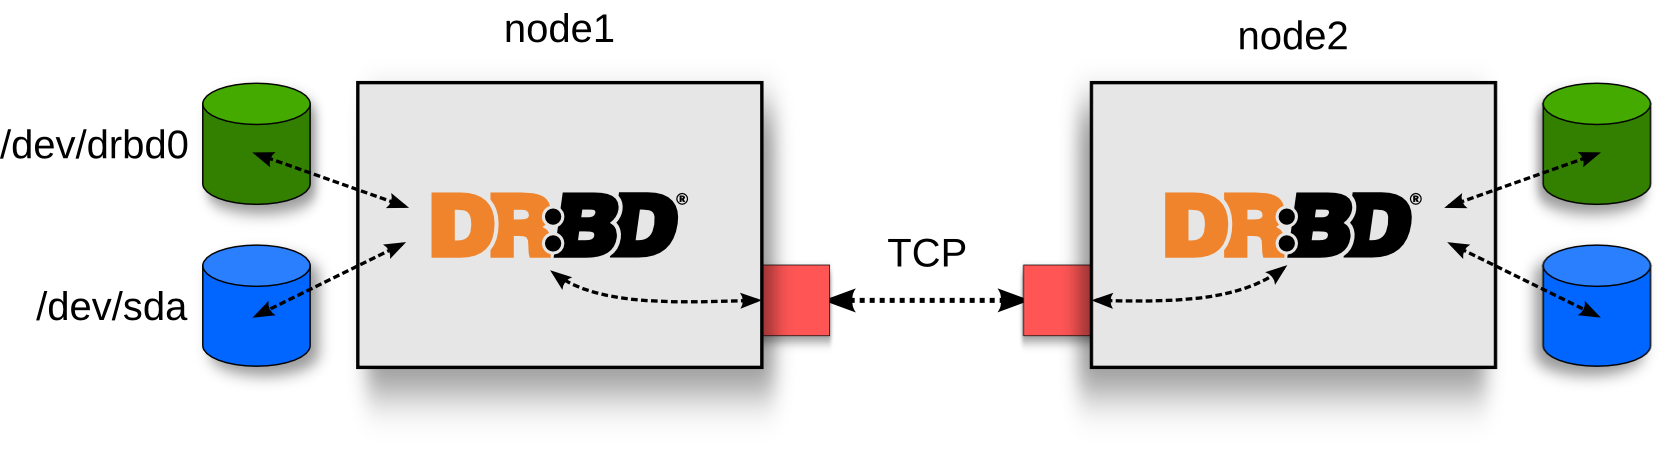
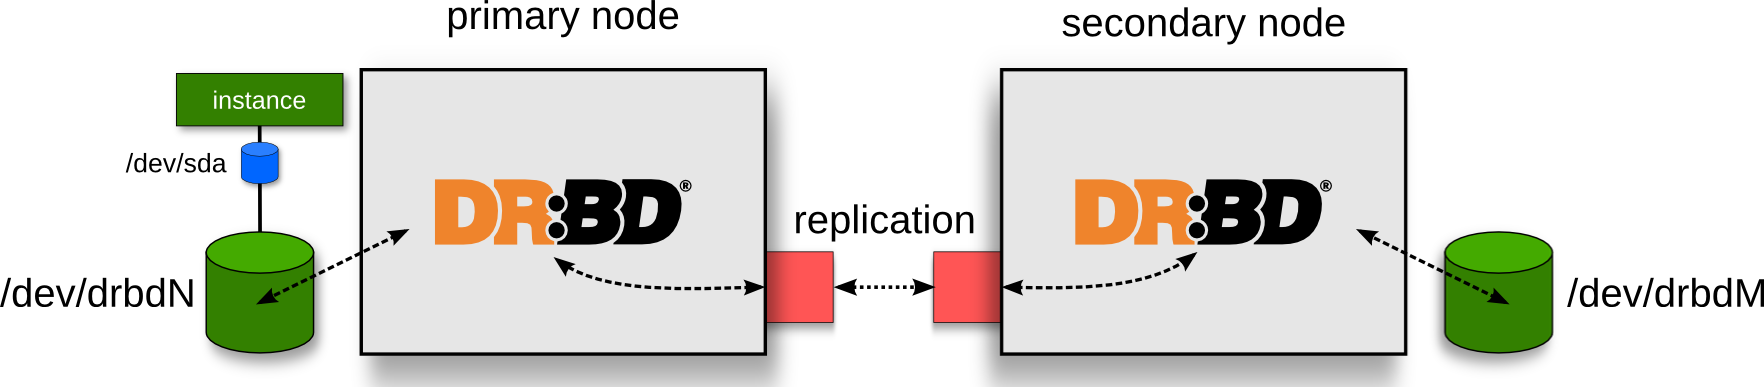
update slides in design goals

diff --git a/design_goals/1_ganeti-intro.md b/design_goals/1_ganeti-intro.md
@@ -3,10 +3,11 @@
 # What is ganeti? #
 
 * Software to manage a cluster of virtual servers
+* Project created and maintained by Google
 * Combines virtualization & data replication
+* Works with multiple hypervisors
 * Automates storage management
 * Automates OS deployment
-* Project created and maintained by Google
 
 !SLIDES bullets smaller-img-height img-right transition=fade
 
@@ -18,14 +19,14 @@
 * various python modules 
 * DRBD
 * LVM
-* KVM and/or Xen
+* KVM, Xen, or LXC*
 
-!SLIDE bullets smaller-img center transition=fade
+!SLIDE smbullets smaller-img-height center transition=fade
 
 # Ganeti terminology #
 
+* Cluster - group of nodes
 * Node - physical host
 * Instance - virtual machine, aka guest
-* Cluster - group of nodes
 
-![node-instance](node-instance.png )
+![ganeti-cluster](ganeti-cluster.png )

diff --git a/design_goals/3_storage.md b/design_goals/3_storage.md
@@ -1,0 +1,19 @@
+!SLIDE bullets transition=fade
+
+# Storage Options #
+* LVM
+* LVM + DRBD (supports migration)
+* File based (raw, qcow2, etc)
+* Shared storage patch coming soon!
+
+!SLIDE smbullets center transition=fade
+
+# Storage: LVM + DRBD #
+
+![drbd](drbd.png)
+
+* Primary & secondary storage nodes
+* Each instance disk synced separately
+* Dedicated backend DRBD network
+* Allows instance failover & migration
+* Ganeti manages setup, starting/stopping DRBD devices

diff --git a/design_goals/2_goals.md b/design_goals/2_goals.md
@@ -4,7 +4,7 @@
 
 * Reduce hardware cost
 * Increase service availability
-* Increase management flexibility
+* Simplify VM cluster management
 * Administration transparency
 
 !SLIDE bullets transition=fade
@@ -13,5 +13,5 @@
 
 * Not dependent on specific hardware
 * Scales linearly
-* Single node takes admin master role
+* Centralized administration
 * N+1 redundancy
